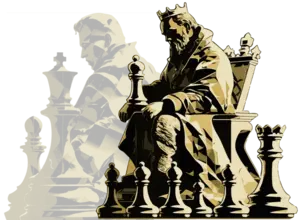
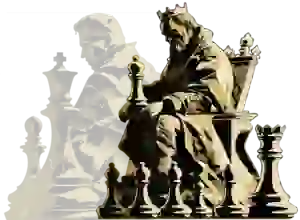
added aria label to cart navlink and changed header img

diff --git a/src/components/Navbar/Navbar.jsx b/src/components/Navbar/Navbar.jsx
@@ -75,36 +75,11 @@ export function Navbar() {
 										: styles.navItem
 								}
 								to='/koszyk'
+								aria-label='Przejdź do koszyka'
 							>
 								<LuShoppingCart size={20} />
 							</NavLink>
 						</li>
-
-						{/* <li>
-							<NavLink className={styles.navItem} to='/kursy'>
-								kursy
-							</NavLink>
-						</li>
-						<li>
-							<NavLink className={styles.navItem} to='/trenerzy'>
-								trenerzy
-							</NavLink>
-						</li>
-						<li>
-							<NavLink className={styles.navItem} to='/o-nas'>
-								o nas
-							</NavLink>
-						</li>
-						<li>
-							<NavLink className={styles.navItem} to='/kontakt'>
-								kontakt
-							</NavLink>
-						</li>
-						<li>
-							<NavLink className={styles.navItem} to='/koszyk'>
-								<LuShoppingCart />
-							</NavLink>
-						</li> */}
 					</ul>
 					<div className={styles.navBurgerBtn} onClick={handleShowNavbar}>
 						<GiHamburgerMenu />

diff --git a/index.html b/index.html
@@ -9,6 +9,9 @@
   <link rel="preconnect" href="https://fonts.gstatic.com" crossorigin>
   <link href="https://fonts.googleapis.com/css2?family=Montserrat:ital,wght@0,100..900;1,100..900&display=swap"
     rel="stylesheet">
+  <link rel="preload" href="https://ostre-debiuty.vercel.app/assets/header-img-small-BHSrLqG6.webp" as="image"
+    type="image/webp">
+
 
   <title>Ostre Debiuty</title>
 </head>
